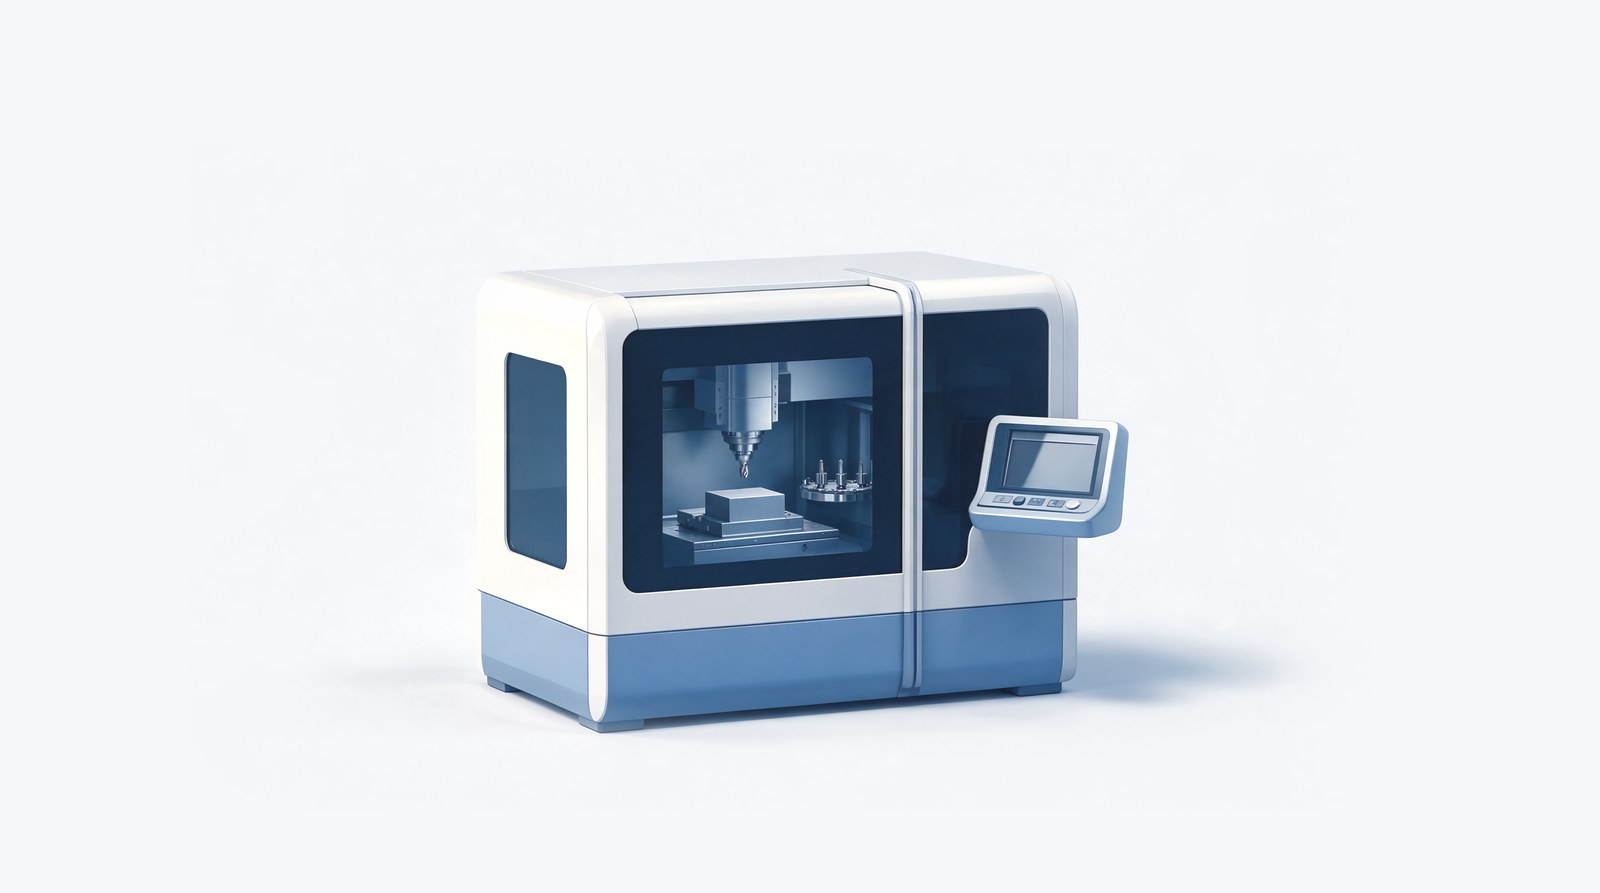
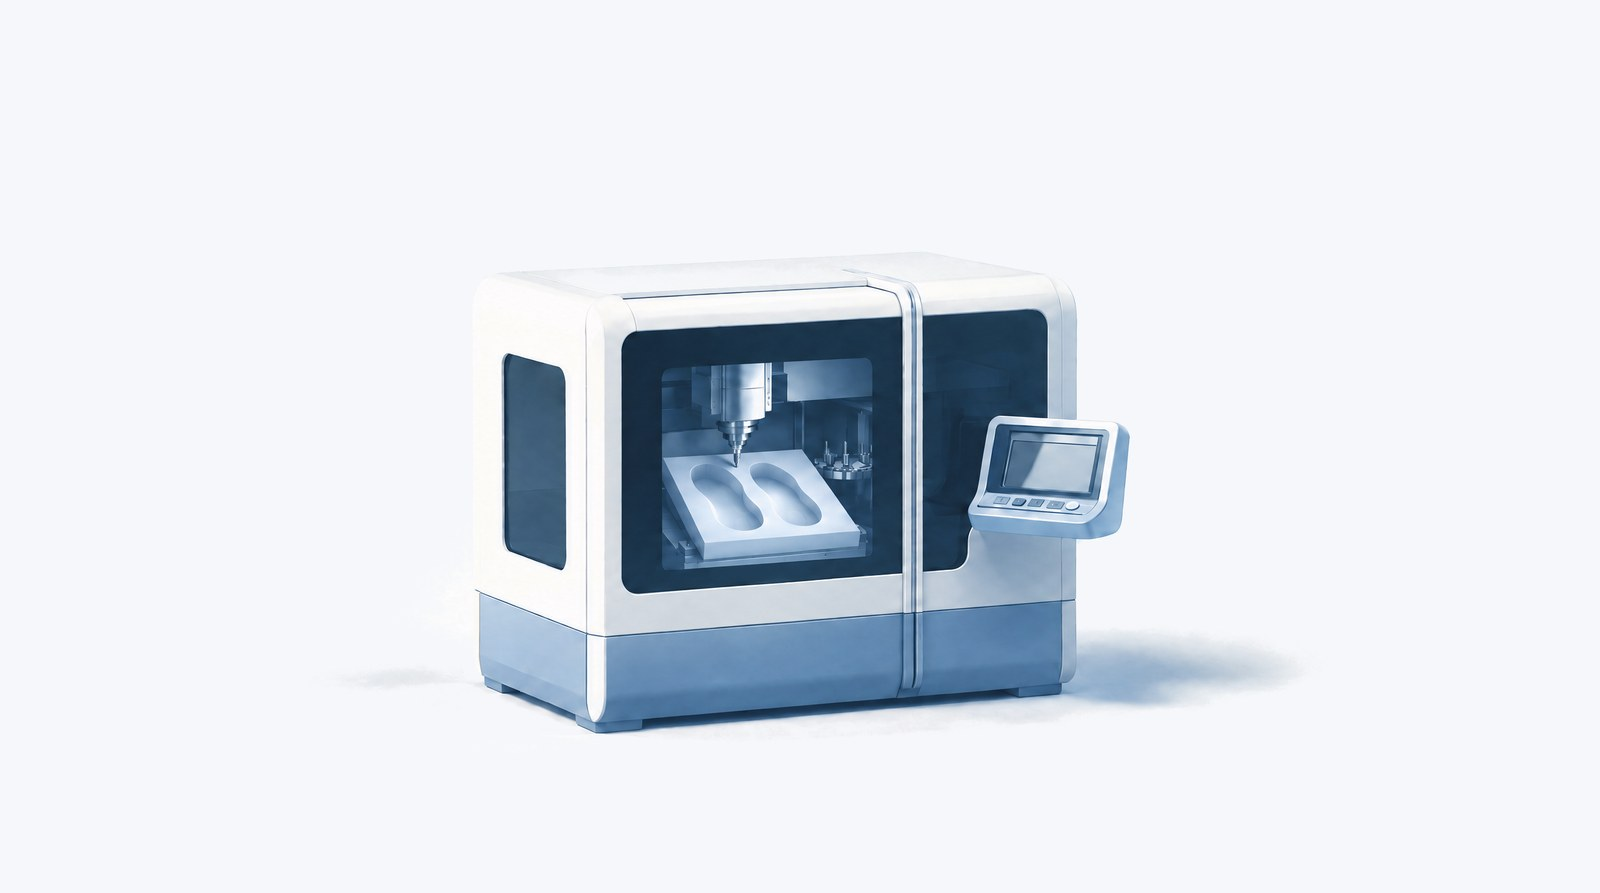
Mill Hub machine: a pair of insoles being milled, in place of the plain block
The three mill images (plain, pin, node arcs) redrawn with an insole pair cut
into a foam block on the bed, at the same names and sizes in all three hub
image folders. Two alt texts say what the picture now shows.

diff --git a/printhub/index.html b/printhub/index.html
@@ -298,7 +298,7 @@ own pages · logo path fixed.
         <span class="kicker">Next door</span>
         <h3>Milled production, run as your own line: the Global Mill Hub <svg width="18" height="18" viewBox="0 0 24 24" fill="none" stroke="currentColor" stroke-width="2.4" aria-hidden="true"><path d="M5 12h14M13 6l6 6-6 6"/></svg></h3>
       </div>
-      <img src="assets/img/mill-hub.jpg" alt="Illustration of an enclosed CNC milling machine with its control screen" width="1600" height="893" loading="lazy">
+      <img src="assets/img/mill-hub.jpg" alt="Illustration of an enclosed CNC milling machine carving a pair of insoles from a foam block" width="1600" height="893" loading="lazy">
     </a>
   </div>
 </section>

diff --git a/hub/index.html b/hub/index.html
@@ -99,7 +99,7 @@ until the scenes are remade with Chris.
 
       <a class="hub-band hub-band--flip" href="https://millhub.nexpoint.co.uk/">
         <div class="hub-band__media">
-          <img src="assets/img/mill-hub.jpg" alt="Illustration of an enclosed CNC milling machine with its control screen" width="1600" height="893" style="height:auto">
+          <img src="assets/img/mill-hub.jpg" alt="Illustration of an enclosed CNC milling machine carving a pair of insoles from a foam block" width="1600" height="893" style="height:auto">
           <span class="status"><span class="live-dot"></span>Live</span>
         </div>
         <div class="hub-band__body">
